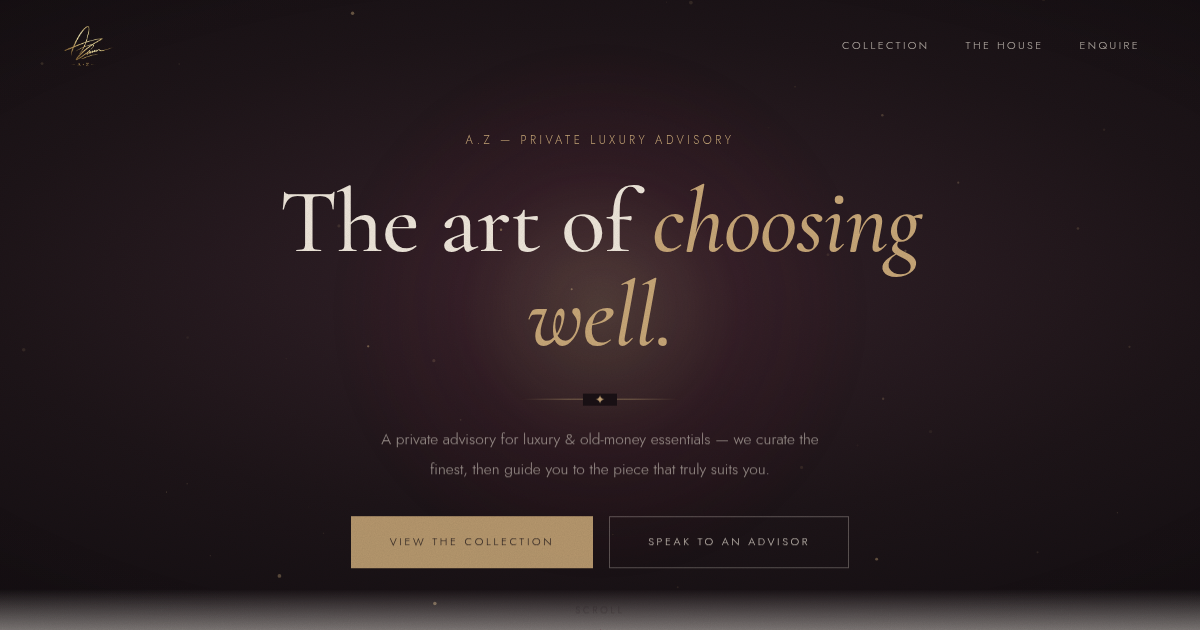
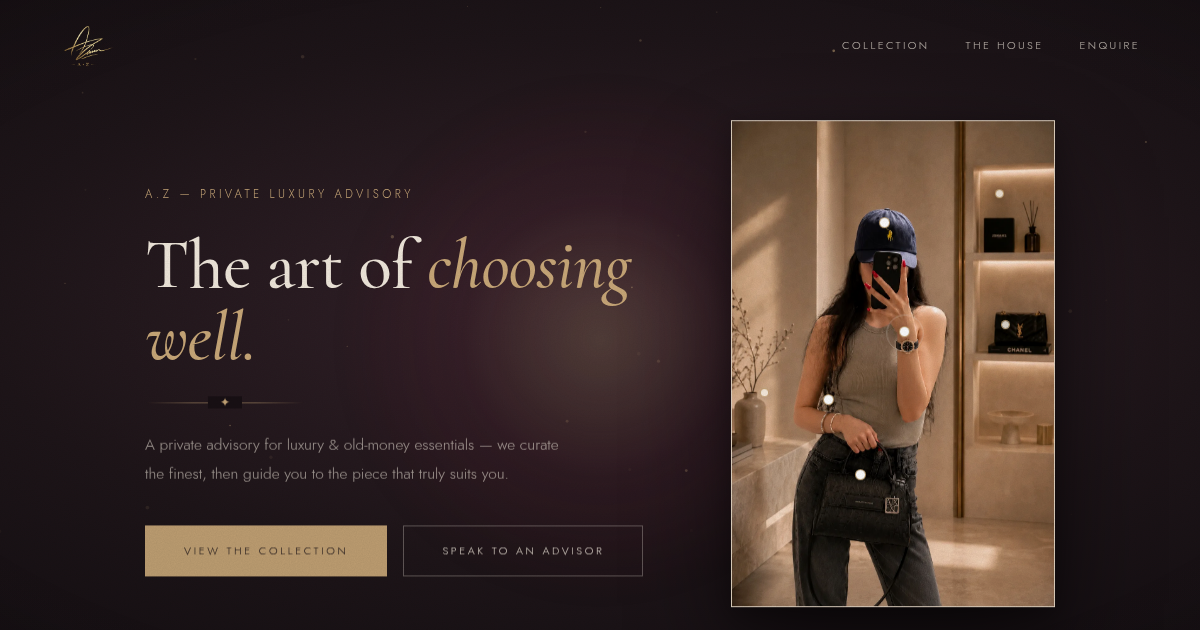
Hero becomes the explorable salon scene — free wheel-zoom, salon objets clickable
- The girl's photograph joins 'The art of choosing well' inside the hero:
  copy left, scene right on the dark stage (stacked on phones)
- Free zoom: mouse wheel dives toward the cursor like stepping into the room
  (up to 3.4x), with glide-to-marker clicks and a dark-glass piece card
- New salon markers on the background objets: the parfum shelf, the display
  shelf, the blossom vase — quieter dots than the worn pieces
- Standalone 'The Look' section removed to declutter; the Vitrine stays

Claude-Session: https://claude.ai/code/session_01CEFTYk1h3BnHq8CD9kzt6z

diff --git a/styles.css b/styles.css
@@ -236,8 +236,8 @@ em { font-style: italic; }
 /* ---------- Hero — cinematic dark stage ---------- */
 .hero {
   position: relative; min-height: 100vh; min-height: 100svh; overflow: hidden;
-  display: flex; flex-direction: column; align-items: center; justify-content: center;
-  text-align: center; padding: 130px 22px 110px; --mx: 0; --my: 0;
+  display: flex; align-items: center; justify-content: center; gap: clamp(36px, 5.5vw, 84px);
+  text-align: left; padding: 120px 5vw 100px; --mx: 0; --my: 0;
   background:
     radial-gradient(116% 80% at 50% 41%, #35232b 0%, #1e1519 45%, #140f12 76%),
     #140f12;
@@ -260,23 +260,32 @@ em { font-style: italic; }
   position: absolute; inset: 0; z-index: 3; pointer-events: none;
   background: radial-gradient(120% 92% at 50% 46%, transparent 52%, rgba(15,11,13,.5) 100%);
 }
-.hero-top { position: relative; z-index: 5; padding: 0 22px; }
-.hero-bottom { position: relative; z-index: 5; padding: 0 22px; margin-top: 36px;
-  display: flex; flex-direction: column; align-items: center; }
+.hero-copy { position: relative; z-index: 5; max-width: 520px; }
 .hero-eyebrow { color: #c9a879; font-size: 11.5px; margin-bottom: 24px; }
 .hero-title {
   font-family: var(--serif); font-weight: 500;
-  font-size: clamp(44px, 8vw, 92px); line-height: 1.02; letter-spacing: -.01em; color: #f0e8dc;
-  max-width: 15ch; margin: 0 auto;
+  font-size: clamp(40px, 5.8vw, 80px); line-height: 1.04; letter-spacing: -.01em; color: #f0e8dc;
+  margin: 0;
 }
 .hero-title em { color: #c9a879; }
-.hero-rule { position: relative; width: 160px; height: 1px; margin: 0 0 24px;
+.hero-rule { position: relative; width: 160px; height: 1px; margin: 28px 0 26px;
   background: linear-gradient(90deg, transparent, rgba(201,168,121,.5) 30%, rgba(201,168,121,.5) 70%, transparent); }
 .hero-rule::after { content: "\2726"; position: absolute; left: 50%; top: 50%;
   transform: translate(-50%,-50%); padding: 0 12px; background: #191115;
   color: #c9a879; font-size: 12px; line-height: 1; }
-.hero-sub { max-width: 440px; margin: 0 auto; color: rgba(240,232,220,.66); font-size: 15.5px; line-height: 1.9; }
-.hero-actions { margin-top: 32px; display: flex; gap: 16px; flex-wrap: wrap; justify-content: center; }
+.hero-sub { max-width: 430px; margin: 0; color: rgba(240,232,220,.66); font-size: 15.5px; line-height: 1.9; }
+.hero-actions { margin-top: 36px; display: flex; gap: 16px; flex-wrap: wrap; justify-content: flex-start; }
+/* the scene — the salon photograph, explorable */
+.hero-scene { position: relative; z-index: 5; }
+.hero .hero-scene { animation-delay: 3.4s; }
+.hero-scene .look-stage {
+  width: clamp(250px, 27vw, 370px);
+  box-shadow: 0 46px 100px rgba(0,0,0,.55), 0 8px 24px rgba(0,0,0,.3);
+  border: 1px solid rgba(201,168,121,.22);
+}
+.scene-hint { margin-top: 16px; text-align: center; font-size: 9.5px; letter-spacing: .28em;
+  text-transform: uppercase; color: rgba(240,232,220,.42); }
+.hero .scene-hint { animation-delay: 3.9s; }
 .hero .btn { display: inline-block; padding: 15px 38px; font-size: 11px; letter-spacing: .24em; text-transform: uppercase;
   transition: background .45s var(--ease), color .45s var(--ease), letter-spacing .45s var(--ease), border-color .45s; }
 .hero .btn--solid { background: #c9a879; color: #1a1216; border: 1px solid #c9a879; }
@@ -293,6 +302,8 @@ em { font-style: italic; }
 .hero .hero-rule    { animation-delay: 3.5s; }
 .hero .hero-sub     { animation-delay: 3.6s; }
 .hero .hero-actions { animation-delay: 3.7s; }
+.hero .hero-scene   { animation-delay: 3.45s; }
+.hero .scene-hint   { animation-delay: 3.95s; }
 .hero .hero-scroll  { animation-delay: 3.9s; }
 @keyframes heroRise { from { opacity: 0; transform: translateY(22px); } to { opacity: 1; transform: translateY(0); } }
 
@@ -342,13 +353,11 @@ em { font-style: italic; }
 .vit-niche::after { content: ""; position: absolute; inset: 6px; border: 1px solid rgba(255,244,224,.16); border-radius: 3px; pointer-events: none; }
 
 /* ---------- The Look — interactive scene (tap a piece, step closer) ---------- */
-.look { padding: 30px 24px 116px; }
 .look-head { text-align: center; margin-bottom: 50px; }
 .look-kicker { font-size: 10px; letter-spacing: .34em; text-transform: uppercase; color: var(--gold); }
 .look-title { font-family: var(--serif); font-weight: 500; font-size: clamp(30px, 4.6vw, 46px); color: var(--ink); margin-top: 14px; }
 .look-title em { font-style: italic; color: var(--gold-2); }
 .look-lead { margin-top: 14px; font-size: 10.5px; letter-spacing: .3em; text-transform: uppercase; color: var(--muted); }
-.look-wrap { display: flex; align-items: center; justify-content: center; gap: clamp(30px, 5vw, 70px); max-width: 1040px; margin: 0 auto; }
 .look-stage {
   position: relative; width: min(440px, 88vw); aspect-ratio: 1023 / 1537; overflow: hidden;
   background: #e7ded4; flex: none;
@@ -358,7 +367,6 @@ em { font-style: italic; }
 }
 .look-photo {
   position: absolute; inset: 0; transform-origin: 50% 50%; will-change: transform;
-  transition: transform 1.6s cubic-bezier(.19, 1, .22, 1);
 }
 .look-photo img { display: block; width: 100%; height: 100%; object-fit: cover; }
 .look-shade {
@@ -384,6 +392,9 @@ em { font-style: italic; }
 .spot:nth-of-type(3) i::after { animation-delay: 1.8s; }
 @keyframes spotPulse { 0% { transform: scale(.5); opacity: .95; } 75% { transform: scale(1.18); opacity: 0; } 100% { transform: scale(1.18); opacity: 0; } }
 .spot:hover i::before { background: #c9a879; }
+/* salon objets — smaller, quieter points */
+.spot--salon i::before { width: 7px; height: 7px; margin: -3.5px; background: rgba(255,248,236,.85); }
+.spot--salon i::after { width: 26px; height: 26px; margin: -13px; opacity: .7; }
 .look-stage.zoomed .spot { opacity: 0; pointer-events: none; }
 .look-close {
   position: absolute; top: 14px; inset-inline-end: 14px; z-index: 4; width: 42px; height: 42px;
@@ -393,25 +404,26 @@ em { font-style: italic; }
   opacity: 0; pointer-events: none; transition: opacity .6s var(--ease);
 }
 .look-stage.zoomed .look-close { opacity: 1; pointer-events: auto; }
-/* the piece card beside the scene */
-.look-card { width: 300px; transition: opacity .7s var(--ease), transform .7s var(--ease); }
-.look-card.fade { opacity: 0; transform: translateY(16px); }
-.lc-kicker { font-size: 10px; letter-spacing: .32em; text-transform: uppercase; color: var(--gold); }
-.lc-name { font-family: var(--serif); font-style: italic; font-weight: 500; font-size: 27px; line-height: 1.3; color: var(--ink); margin-top: 12px; }
-.lc-note { margin-top: 14px; font-size: 14.5px; line-height: 1.95; color: var(--ink-2); }
-.lc-img { display: block; width: 132px; margin-top: 22px; padding: 10px; background: #fff;
-  box-shadow: 0 14px 30px rgba(43,34,38,.14), 0 3px 8px rgba(43,34,38,.07); }
+/* the piece card — dark glass, floating over the base of the scene */
+.look-card {
+  position: absolute; left: 12px; right: 12px; bottom: 12px; z-index: 5;
+  padding: 15px 16px 14px; text-align: left;
+  background: rgba(18,11,14,.6); -webkit-backdrop-filter: blur(10px); backdrop-filter: blur(10px);
+  border: 1px solid rgba(201,168,121,.28);
+  opacity: 0; transform: translateY(14px); pointer-events: none;
+  transition: opacity .6s var(--ease), transform .6s var(--ease);
+}
+.look-card.show { opacity: 1; transform: none; pointer-events: auto; }
+.lc-kicker { font-size: 9px; letter-spacing: .32em; text-transform: uppercase; color: #c9a879; }
+.lc-name { font-family: var(--serif); font-style: italic; font-weight: 500; font-size: 19px; line-height: 1.3; color: #f0e8dc; margin-top: 6px; }
+.lc-note { margin-top: 8px; font-size: 12.5px; line-height: 1.8; color: rgba(240,232,220,.72); }
+.lc-img { display: block; width: 76px; margin-top: 12px; padding: 6px; background: #fff;
+  box-shadow: 0 10px 22px rgba(0,0,0,.35); }
 .lc-img.hidden { display: none; }
-.lc-link { display: inline-flex; align-items: center; gap: 10px; margin-top: 22px; font-size: 10.5px; letter-spacing: .26em; text-transform: uppercase; color: var(--gold-2); }
+.lc-link { display: inline-flex; align-items: center; gap: 10px; margin-top: 12px; font-size: 10px; letter-spacing: .26em; text-transform: uppercase; color: #c9a879; }
 .lc-link::after { content: "\27F6"; font-size: 14px; transition: transform .35s var(--ease); }
 .lc-link:hover::after { transform: translateX(6px); }
 .lc-link.hidden { display: none; }
-@media (max-width: 880px) {
-  .look-wrap { flex-direction: column; gap: 34px; }
-  .look-card { width: min(430px, 88vw); text-align: center; }
-  .lc-img { margin-inline: auto; }
-  .look { padding-bottom: 96px; }
-}
 
 /* ---------- Lightbox ---------- */
 .lb {
@@ -704,6 +716,14 @@ em { font-style: italic; }
   .grid { grid-template-columns: repeat(2, 1fr); }
   .pillars { grid-template-columns: 1fr; gap: 48px; max-width: 420px; }
 }
+/* hero folds to a column — copy above, scene below */
+@media (max-width: 940px) {
+  .hero { flex-direction: column; text-align: center; gap: 40px; padding: 116px 24px 84px; }
+  .hero-rule { margin: 26px auto 24px; }
+  .hero-sub { margin: 0 auto; }
+  .hero-actions { justify-content: center; }
+  .hero-scene .look-stage { width: min(66vw, 320px); margin: 0 auto; }
+}
 /* swap desktop nav for a full-screen menu */
 @media (max-width: 820px) {
   .nav { display: none; }
@@ -712,8 +732,9 @@ em { font-style: italic; }
 @media (max-width: 560px) {
   /* declutter: phone shows only the essentials */
   .houses, .hero-scroll, .card .thumbs, .only-desktop { display: none; }
-  /* phones: bring the piece up a touch and tighten the copy bands */
-  .hero { padding: 116px 22px 96px; }
+  .hero { padding: 108px 22px 80px; gap: 34px; }
+  .hero-scene .look-stage { width: min(76vw, 320px); }
+  .hero-actions { margin-inline: auto; }
   /* the vitrine folds to a 2×2 wall on phones */
   .vitrine { padding-top: 72px; }
   .vit-wall { grid-template-columns: repeat(2, 1fr); gap: 14px; max-width: 430px; }

diff --git a/script.js b/script.js
@@ -327,10 +327,6 @@
     const K = document.getElementById("lcKicker"), N = document.getElementById("lcName"),
           T = document.getElementById("lcNote"), L = document.getElementById("lcLink"),
           IM = document.getElementById("lcImg");
-    const REST = {
-      kicker: "The Pieces", name: "Three quiet essentials",
-      note: "A cap, a timepiece, and the crown piece itself — worn together in the salon. Touch a marker on the scene to step closer to each one."
-    };
     const PIECES = {
       cap: {
         kicker: "Headwear", name: "Polo Ralph Lauren — Classic Cap", zoom: 2.5,
@@ -349,40 +345,72 @@
         kicker: "The Crown Piece", name: "Armani Exchange — Logo Top-Handle", zoom: 2.2,
         note: "Embossed logotype over pebbled black leather, carried by the top handle. The piece this whole look is built around.",
         link: "piece.html?id=1"
+      },
+      parfum: {
+        kicker: "The Salon", name: "The Parfum Shelf", zoom: 3,
+        note: "A lacquered coffret beside a reed diffuser — the salon is scented before it is seen. Objets of the house, setting the air."
+      },
+      shelf: {
+        kicker: "The Salon", name: "The Display Shelf", zoom: 2.7,
+        note: "A quilted chain bag resting on collectors' volumes. Styling objets of our salon — pieces like these can be sourced on request."
+      },
+      vase: {
+        kicker: "The Salon", name: "Wild Blossom & Stone", zoom: 2.8,
+        note: "Spring branches in glazed stoneware — the quiet company the pieces keep. Nothing in the room raises its voice."
       }
     };
-    let zoomed = false;
-    function setCard(p, withLink) {
-      card.classList.add("fade");
-      setTimeout(() => {
-        K.textContent = p.kicker; N.textContent = p.name; T.textContent = p.note;
-        if (withLink && p.img) { IM.src = p.img; IM.alt = p.name; IM.classList.remove("hidden"); }
-        else IM.classList.add("hidden");
-        if (withLink && p.link) { L.href = p.link; L.classList.remove("hidden"); }
-        else L.classList.add("hidden");
-        card.classList.remove("fade");
-      }, 350);
+    /* one camera: z / tx / ty glide toward targets (marker clicks AND wheel) */
+    let z = 1, tx = 0, ty = 0, zt = 1, txt = 0, tyt = 0, raf = 0;
+    const clamp = (v, l) => Math.max(-l, Math.min(l, v));
+    function loop() {
+      z += (zt - z) * 0.09; tx += (txt - tx) * 0.09; ty += (tyt - ty) * 0.09;
+      photo.style.transform = "translate(" + tx + "%, " + ty + "%) scale(" + z + ")";
+      raf = (Math.abs(zt - z) + Math.abs(txt - tx) + Math.abs(tyt - ty) > 0.004)
+        ? requestAnimationFrame(loop) : 0;
+    }
+    const kick = () => { if (!raf) raf = requestAnimationFrame(loop); };
+    function setCard(p) {
+      K.textContent = p.kicker; N.textContent = p.name; T.textContent = p.note;
+      if (p.img) { IM.src = p.img; IM.alt = p.name; IM.classList.remove("hidden"); }
+      else IM.classList.add("hidden");
+      if (p.link) { L.href = p.link; L.classList.remove("hidden"); }
+      else L.classList.add("hidden");
+      card.classList.add("show");
+    }
+    function hideCard() { card.classList.remove("show"); }
+    function zoomState() {
+      stage.classList.toggle("zoomed", zt > 1.05);
+      if (zt > 1.02) { stage.style.setProperty("--tx", "0deg"); stage.style.setProperty("--ty", "0deg"); }
     }
     function zoomTo(btn) {
       const p = PIECES[btn.dataset.piece]; if (!p) return;
-      // centre the piece in the frame: translate after scaling, clamped to the edges
       const x = parseFloat(btn.style.getPropertyValue("--x"));
       const y = parseFloat(btn.style.getPropertyValue("--y"));
-      const s = p.zoom, lim = 50 * s - 50;
-      const tx = Math.max(-lim, Math.min(lim, -(x - 50) * s));
-      const ty = Math.max(-lim, Math.min(lim, -(y - 50) * s));
-      photo.style.transformOrigin = "50% 50%";
-      photo.style.transform = "translate(" + tx + "%, " + ty + "%) scale(" + s + ")";
-      stage.style.setProperty("--tx", "0deg"); stage.style.setProperty("--ty", "0deg");
-      stage.classList.add("zoomed"); zoomed = true;
-      setCard(p, true);
+      const lim = 50 * p.zoom - 50;
+      zt = p.zoom;
+      txt = clamp(-(x - 50) * p.zoom, lim);
+      tyt = clamp(-(y - 50) * p.zoom, lim);
+      zoomState(); setCard(p); kick();
     }
     function stepBack() {
-      if (!zoomed) return;
-      photo.style.transform = "none";
-      stage.classList.remove("zoomed"); zoomed = false;
-      setCard(REST, false);
+      if (zt <= 1.01) return;
+      zt = 1; txt = 0; tyt = 0;
+      zoomState(); hideCard(); kick();
     }
+    /* wheel — free zoom toward the cursor, like walking into the scene */
+    stage.addEventListener("wheel", (e) => {
+      e.preventDefault();
+      const r = stage.getBoundingClientRect();
+      const cx = ((e.clientX - r.left) / r.width) * 100 - 50;
+      const cy = ((e.clientY - r.top) / r.height) * 100 - 50;
+      const c0x = (cx - txt) / zt, c0y = (cy - tyt) / zt;
+      zt = Math.max(1, Math.min(3.4, zt * (e.deltaY < 0 ? 1.15 : 1 / 1.15)));
+      const lim = 50 * zt - 50;
+      txt = clamp(cx - c0x * zt, lim);
+      tyt = clamp(cy - c0y * zt, lim);
+      if (zt <= 1.01) { txt = 0; tyt = 0; hideCard(); }
+      zoomState(); kick();
+    }, { passive: false });
     stage.querySelectorAll(".spot").forEach((b) =>
       b.addEventListener("click", (e) => { e.stopPropagation(); zoomTo(b); }));
     closeBtn.addEventListener("click", (e) => { e.stopPropagation(); stepBack(); });
@@ -391,7 +419,7 @@
     /* gentle 3D tilt at rest — desktop pointers only */
     if (matchMedia("(hover:hover)").matches && !matchMedia("(prefers-reduced-motion: reduce)").matches) {
       stage.addEventListener("pointermove", (e) => {
-        if (zoomed) return;
+        if (zt > 1.02) return;
         const r = stage.getBoundingClientRect();
         const nx = (e.clientX - r.left) / r.width - 0.5;
         const ny = (e.clientY - r.top) / r.height - 0.5;

diff --git a/index.html b/index.html
@@ -69,17 +69,39 @@
     <div class="hero-glow" aria-hidden="true"></div>
     <canvas class="hero-dust" id="dust" aria-hidden="true"></canvas>
     <div class="hero-vignette" aria-hidden="true"></div>
-    <div class="hero-top">
+    <div class="hero-copy">
       <p class="hero-eyebrow reveal">A.z — Private Luxury Advisory</p>
       <h1 class="hero-title reveal">The art of <em>choosing well.</em></h1>
-    </div>
-    <div class="hero-bottom">
       <div class="hero-rule reveal" aria-hidden="true"></div>
       <p class="hero-sub reveal">A private advisory for luxury &amp; old-money essentials — we curate the finest, then guide you to the piece that truly suits you.</p>
       <div class="hero-actions reveal">
         <a href="#collection" class="btn btn--solid">View the Collection</a>
         <a href="#enquire" class="btn btn--ghost">Speak to an Advisor</a>
       </div>
+    </div>
+    <div class="hero-scene reveal">
+      <div class="look-stage" id="lookStage">
+        <div class="look-photo" id="lookPhoto">
+          <img src="images/look.webp" alt="Styled in the salon — every piece in the scene can be explored" />
+          <span class="look-shade" aria-hidden="true"></span>
+          <button class="spot" data-piece="cap" style="--x:47.5%; --y:21%" aria-label="View the cap"><i></i></button>
+          <button class="spot" data-piece="watch" style="--x:53.5%; --y:43.5%" aria-label="View the timepiece"><i></i></button>
+          <button class="spot" data-piece="bracelets" style="--x:30%; --y:57.5%" aria-label="View the bracelets"><i></i></button>
+          <button class="spot" data-piece="bag" style="--x:40%; --y:73%" aria-label="View the bag"><i></i></button>
+          <button class="spot spot--salon" data-piece="parfum" style="--x:83%; --y:15%" aria-label="View the parfum shelf"><i></i></button>
+          <button class="spot spot--salon" data-piece="shelf" style="--x:85%; --y:42%" aria-label="View the display shelf"><i></i></button>
+          <button class="spot spot--salon" data-piece="vase" style="--x:10%; --y:56%" aria-label="View the blossom vase"><i></i></button>
+        </div>
+        <button class="look-close" id="lookClose" aria-label="Step back">×</button>
+        <article class="look-card" id="lookCard" aria-live="polite">
+          <span class="lc-kicker" id="lcKicker"></span>
+          <h3 class="lc-name" id="lcName"></h3>
+          <p class="lc-note" id="lcNote"></p>
+          <img class="lc-img hidden" id="lcImg" src="" alt="" loading="lazy" />
+          <a class="lc-link hidden" id="lcLink" href="#">Discover the Piece</a>
+        </article>
+      </div>
+      <p class="scene-hint reveal">Scroll into the scene · touch a marker</p>
     </div>
     <span class="hero-scroll reveal" aria-hidden="true">Scroll</span>
   </section>
@@ -113,35 +135,6 @@
         <img src="images/vit-baule.webp" alt="" loading="lazy" />
         <span class="vit-cap"><b>Calvin Klein</b><i>Shoulder Bag</i></span>
       </a>
-    </div>
-  </section>
-
-  <!-- The Look — interactive scene: select a piece, step closer -->
-  <section class="look" id="look">
-    <div class="look-head">
-      <p class="look-kicker reveal">The Look</p>
-      <h2 class="look-title reveal">One scene. <em>Every piece, considered.</em></h2>
-      <p class="look-lead reveal">Select a marker to step closer</p>
-    </div>
-    <div class="look-wrap reveal">
-      <div class="look-stage" id="lookStage">
-        <div class="look-photo" id="lookPhoto">
-          <img src="images/look.webp" alt="Styled in the salon — cap, timepiece and the Armani Exchange top-handle" loading="lazy" />
-          <span class="look-shade" aria-hidden="true"></span>
-          <button class="spot" data-piece="cap" style="--x:47.5%; --y:21%" aria-label="View the cap"><i></i></button>
-          <button class="spot" data-piece="watch" style="--x:53.5%; --y:43.5%" aria-label="View the timepiece"><i></i></button>
-          <button class="spot" data-piece="bracelets" style="--x:30%; --y:57.5%" aria-label="View the bracelets"><i></i></button>
-          <button class="spot" data-piece="bag" style="--x:40%; --y:73%" aria-label="View the bag"><i></i></button>
-        </div>
-        <button class="look-close" id="lookClose" aria-label="Step back">×</button>
-      </div>
-      <aside class="look-card" id="lookCard" aria-live="polite">
-        <span class="lc-kicker" id="lcKicker">The Pieces</span>
-        <h3 class="lc-name" id="lcName">Three quiet essentials</h3>
-        <p class="lc-note" id="lcNote">A cap, a timepiece, and the crown piece itself — worn together in the salon. Touch a marker on the scene to step closer to each one.</p>
-        <img class="lc-img hidden" id="lcImg" src="" alt="" loading="lazy" />
-        <a class="lc-link hidden" id="lcLink" href="#">Discover the Piece</a>
-      </aside>
     </div>
   </section>
 
